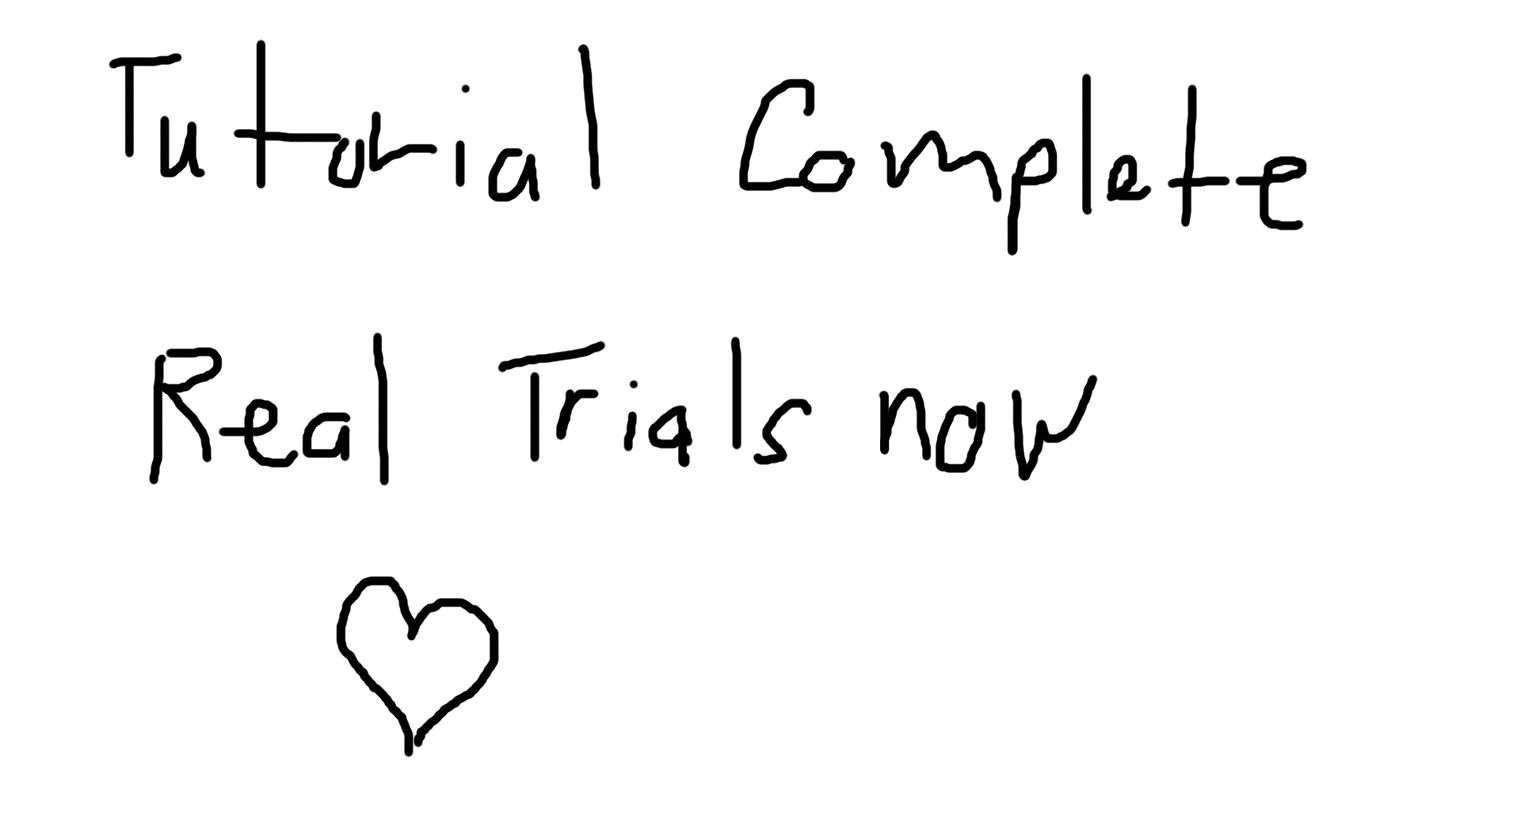
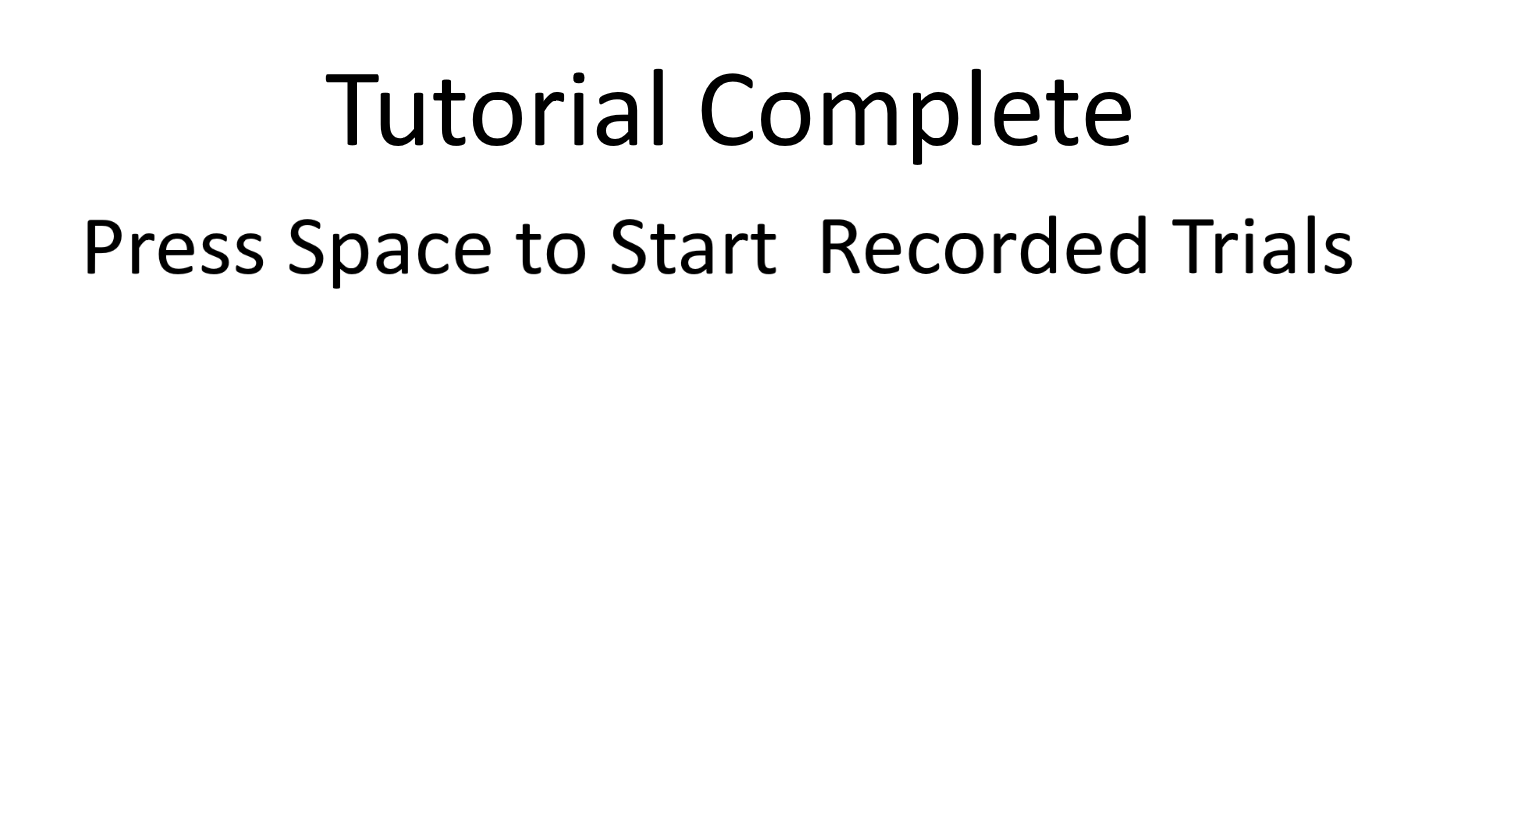
Fixed some final bugs, Replaced temp pictures with final pictures

diff --git a/Study.py b/Study.py
@@ -40,7 +40,6 @@ def quit():
 
 # Initilizer for pygame
 pygame.init()
-print("Pygame initilized")
 
 # Frames per second setting
 FPS = 30
@@ -110,6 +109,8 @@ totalPixTrav = 0
 prevPos = (-1,-1)
 # Starting check 
 start = False
+# Boolean to prevent a user from just spamming space bar through the trials
+trialCompleted = True
 # Set up colors
 BLACK = (0,0,0)
 # Main logic controler
@@ -141,11 +142,9 @@ for trial in PossibleTrialsList:
 		trialBlock.append(trial)
 	else: # Insert the trial at the start of the block if 2
 		trialBlock.insert(0,trial)
-print("First block generated: " + str(trialBlock) )		
+		
 # The trail currently being performed
 currentTrial = trialBlock.pop()
-print("First trial: " + str(currentTrial))
-print("block now: " + str(trialBlock))
 
 #################################################################
 ## Main Logic Section
@@ -188,7 +187,7 @@ while True:
 			DISPLAYSURF.blit(instructionsImg, [0, 0])
 		
 		# Key Press Down Event (ASCII Codes)
-		elif event.type == pygame.KEYDOWN  and done == False:
+		elif event.type == pygame.KEYDOWN:
 			
 			# If excape key was pressed quit the game
 			if event.key == 27: 
@@ -196,17 +195,17 @@ while True:
 				
 			#Pressing space to complete the instructions and then tutorials to move on to the trials
 			# If space bar is pressed
-			elif event.key == 32:
+			elif event.key == 32  and done == False:
 				#Allow the player to complete the instructions 
 				# if they haven't yet and 5 seconds or more have passed
 				if instructionsComplete == False and gameMilliseconds >= 500:
-					print(str(instructionsComplete))
 					instructionsComplete = True
 				
 				# Start doing trials (tutorial first)
-				elif instructionsComplete == True:
+				elif instructionsComplete == True and trialCompleted == True:
 					# Now in trials
 					inTrials = True
+					trialCompleted = False
 					
 					# Clear the screen
 					DISPLAYSURF.fill( (255,255,255) )
@@ -221,7 +220,6 @@ while True:
 					
 					# If test block is empty generate the next block
 					if not trialBlock:
-						print("Block empty")
 						# Increment the number of blocks completed
 						blocksCompleted += 1
 						
@@ -251,6 +249,8 @@ while True:
 						tutorialsDoneTime = gameMilliseconds
 						# Mark the tutorials as completed
 						tutorialsComplete = True
+						# Tutorial is now completed can move on to the next trial
+						trialCompleted = True
 						# Record mouse coursor movement now
 						watchMouse = True
 						# Reset the trial block so it gets regenerated for real trials
@@ -272,7 +272,9 @@ while True:
 			
 			# Sucessful click on the circle object
 			if click == 1:
-				##Do other stuff as well like print to a file about the trial info, errors, time completed, etc
+				# Trial is now completed can move on to the next
+				trialCompleted = True
+				
 				# Completed Trials count
 				trialDoneCounter += 1
 					
@@ -281,9 +283,6 @@ while True:
 					# Total Trial Runtime accumulator and total mouse pixles traveled 
 					RunTimeAccumulator += gameMilliseconds-trialStartTime
 					totalPixTrav += pixlesTravled
-					
-					print( str(currentTrial[1]) + " * 2")
-					print( str(currentTrial[0]) + " * 2")
 					
 					# Prepair Print Line and write record to file
 					printLine = (str(trialDoneCounter) + "; " + str(currentTrial) +"; "+ 
@@ -314,18 +313,15 @@ while True:
 			# Load the end screen image
 			endImg = pygame.image.load('end.png')
 			DISPLAYSURF.blit(endImg, [0, 0])
-			# Display end game statistics (Misclicks, total Trials, Seconds in Time/trial)
-			label = myfont.render("Total Misclicks: "+ str(totalErrors) , 1, (1,1,1))
-			DISPLAYSURF.blit(label, (WIDTH//2 - 250, HEIGHT//2 + HEIGHT//4))
-			label = myfont.render("Total Trials: "+ str(trialDoneCounter) , 1, (1,1,1))
-			DISPLAYSURF.blit(label, (WIDTH//2 - 250, HEIGHT//2 + HEIGHT//4 + 10))
-			label = myfont.render("Average Time/Trial (Milliseconds): "+ str(RunTimeAccumulator//trialDoneCounter) , 1, (1,1,1))
-			DISPLAYSURF.blit(label, (WIDTH//2 - 250, HEIGHT//2 + HEIGHT//4 + 20)) 
-			
-			print(str(totalPixTrav) + "/" + str(trialDoneCounter) )
-			
-			label = myfont.render("Average Mouse Distance Traveled/Trial (Pixles): "+ str(totalPixTrav//trialDoneCounter) , 1, (1,1,1))
-			DISPLAYSURF.blit(label, (WIDTH//2 - 250, HEIGHT//2 + HEIGHT//4 + 30)) 
+			# Display end game statistics (Misclicks, total Trials, Milliseconds in Time/trial, total pixles mouse traveled/trial)
+			label = myfont.render("Total Misclicks: "+ str(totalErrors) , 3, (1,1,1))
+			DISPLAYSURF.blit(label, (WIDTH//2 - 250, HEIGHT//2 + HEIGHT//4 - 100))
+			label = myfont.render("Total Trials: "+ str(trialDoneCounter) , 3, (1,1,1))
+			DISPLAYSURF.blit(label, (WIDTH//2 - 250, HEIGHT//2 + HEIGHT//4 + 20 - 100))
+			label = myfont.render("Average Time/Trial (Milliseconds): "+ str(RunTimeAccumulator//trialDoneCounter) , 3, (1,1,1))
+			DISPLAYSURF.blit(label, (WIDTH//2 - 250, HEIGHT//2 + HEIGHT//4 + 40 - 100)) 
+			label = myfont.render("Average Mouse Distance Traveled/Trial (Pixles): "+ str(totalPixTrav//trialDoneCounter) , 3, (1,1,1))
+			DISPLAYSURF.blit(label, (WIDTH//2 - 250, HEIGHT//2 + HEIGHT//4 + 60 - 100)) 
 	
 	# render current progress text
 	if inTrials == True:
